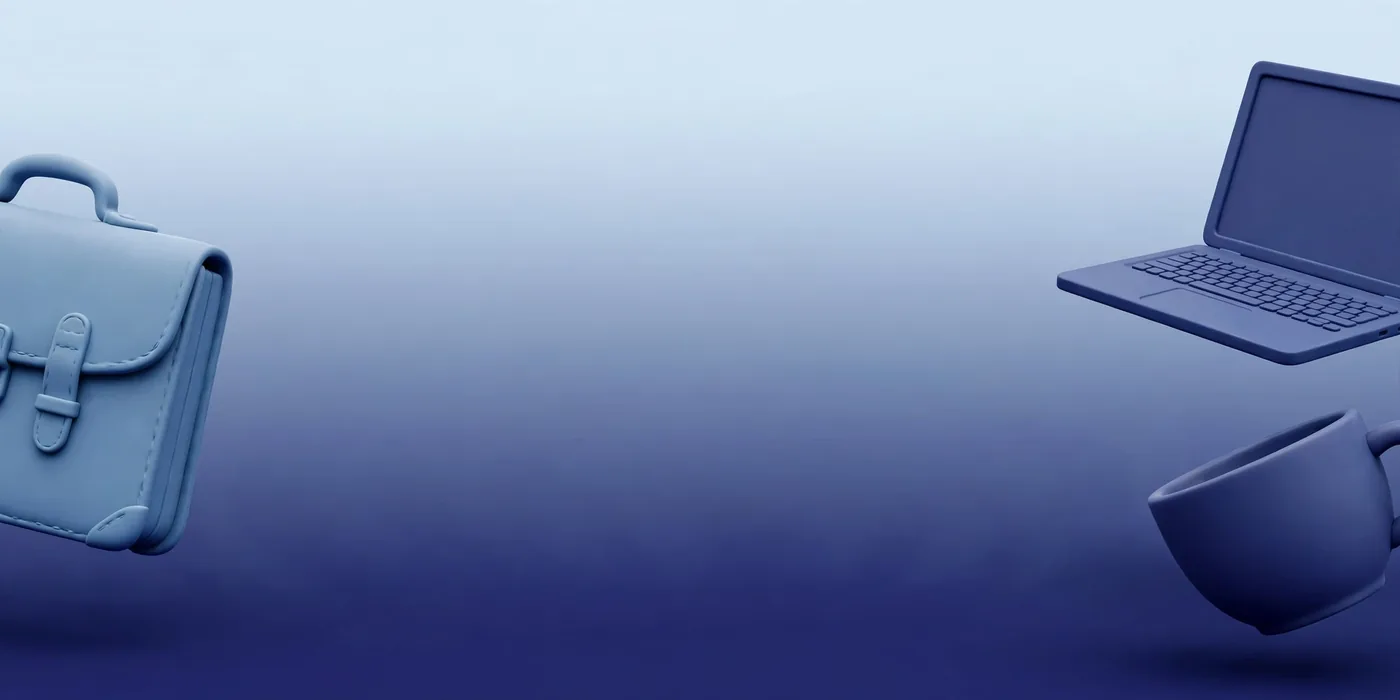
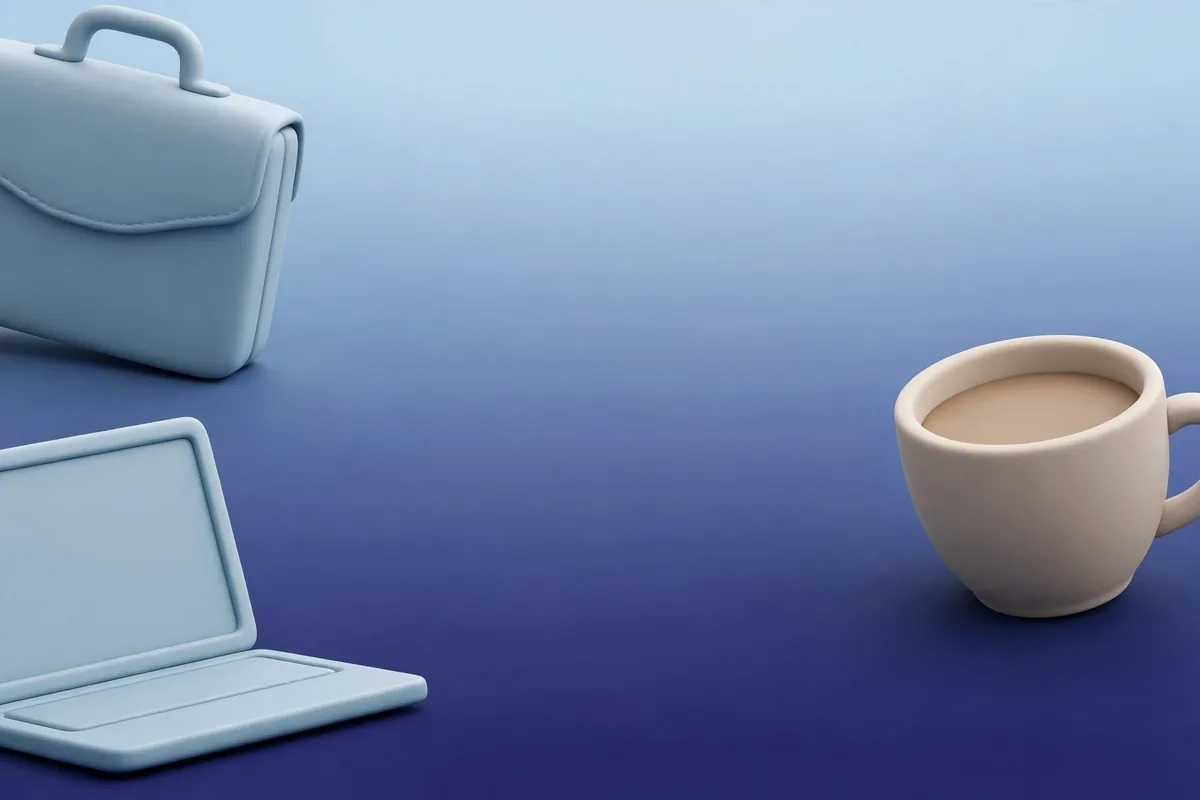
Новые шапки разделов в пропорции 3:2
Все двенадцать на месте: авто, детские товары, услуги, дом и сад,
хобби и спорт, недвижимость, одежда, животные, работа, красота,
электроника, бизнес.

Прежние были 2:1 — на телефоне это узкая полоса, где предметы по краям
выходили мелкими, а середина пустовала. Эти 3:2: высота шапки теперь
две трети ширины экрана, предметы видны целиком и крупно.

Двенадцать картинок весят 276 КБ.

diff --git a/frontend/src/styles.css b/frontend/src/styles.css
@@ -3951,9 +3951,10 @@ button{ border:none; background:none; font-family:inherit; cursor:pointer; user-
   /* Картинка 2:1, и по краям у неё предметы. Держим шапку такой
      высоты, чтобы они помещались целиком: при меньшей видна одна
      середина, то есть пустой фон. */
-  /* Половина ширины экрана — ровно пропорции картинки 2:1, так предметы
-     по краям видны целиком, а не одной серединой. */
-  min-height:50vw; display:flex; flex-direction:column; justify-content:flex-end;
+  /* Две трети ширины экрана — пропорции картинки 3:2. При меньшей
+     высоте браузер обрезает её по бокам, то есть ровно там, где стоят
+     предметы. */
+  min-height:66vw; display:flex; flex-direction:column; justify-content:flex-end;
   background-size:cover, cover; background-position:center, center; background-repeat:no-repeat, no-repeat;
 }
 .landing-hero::before{
